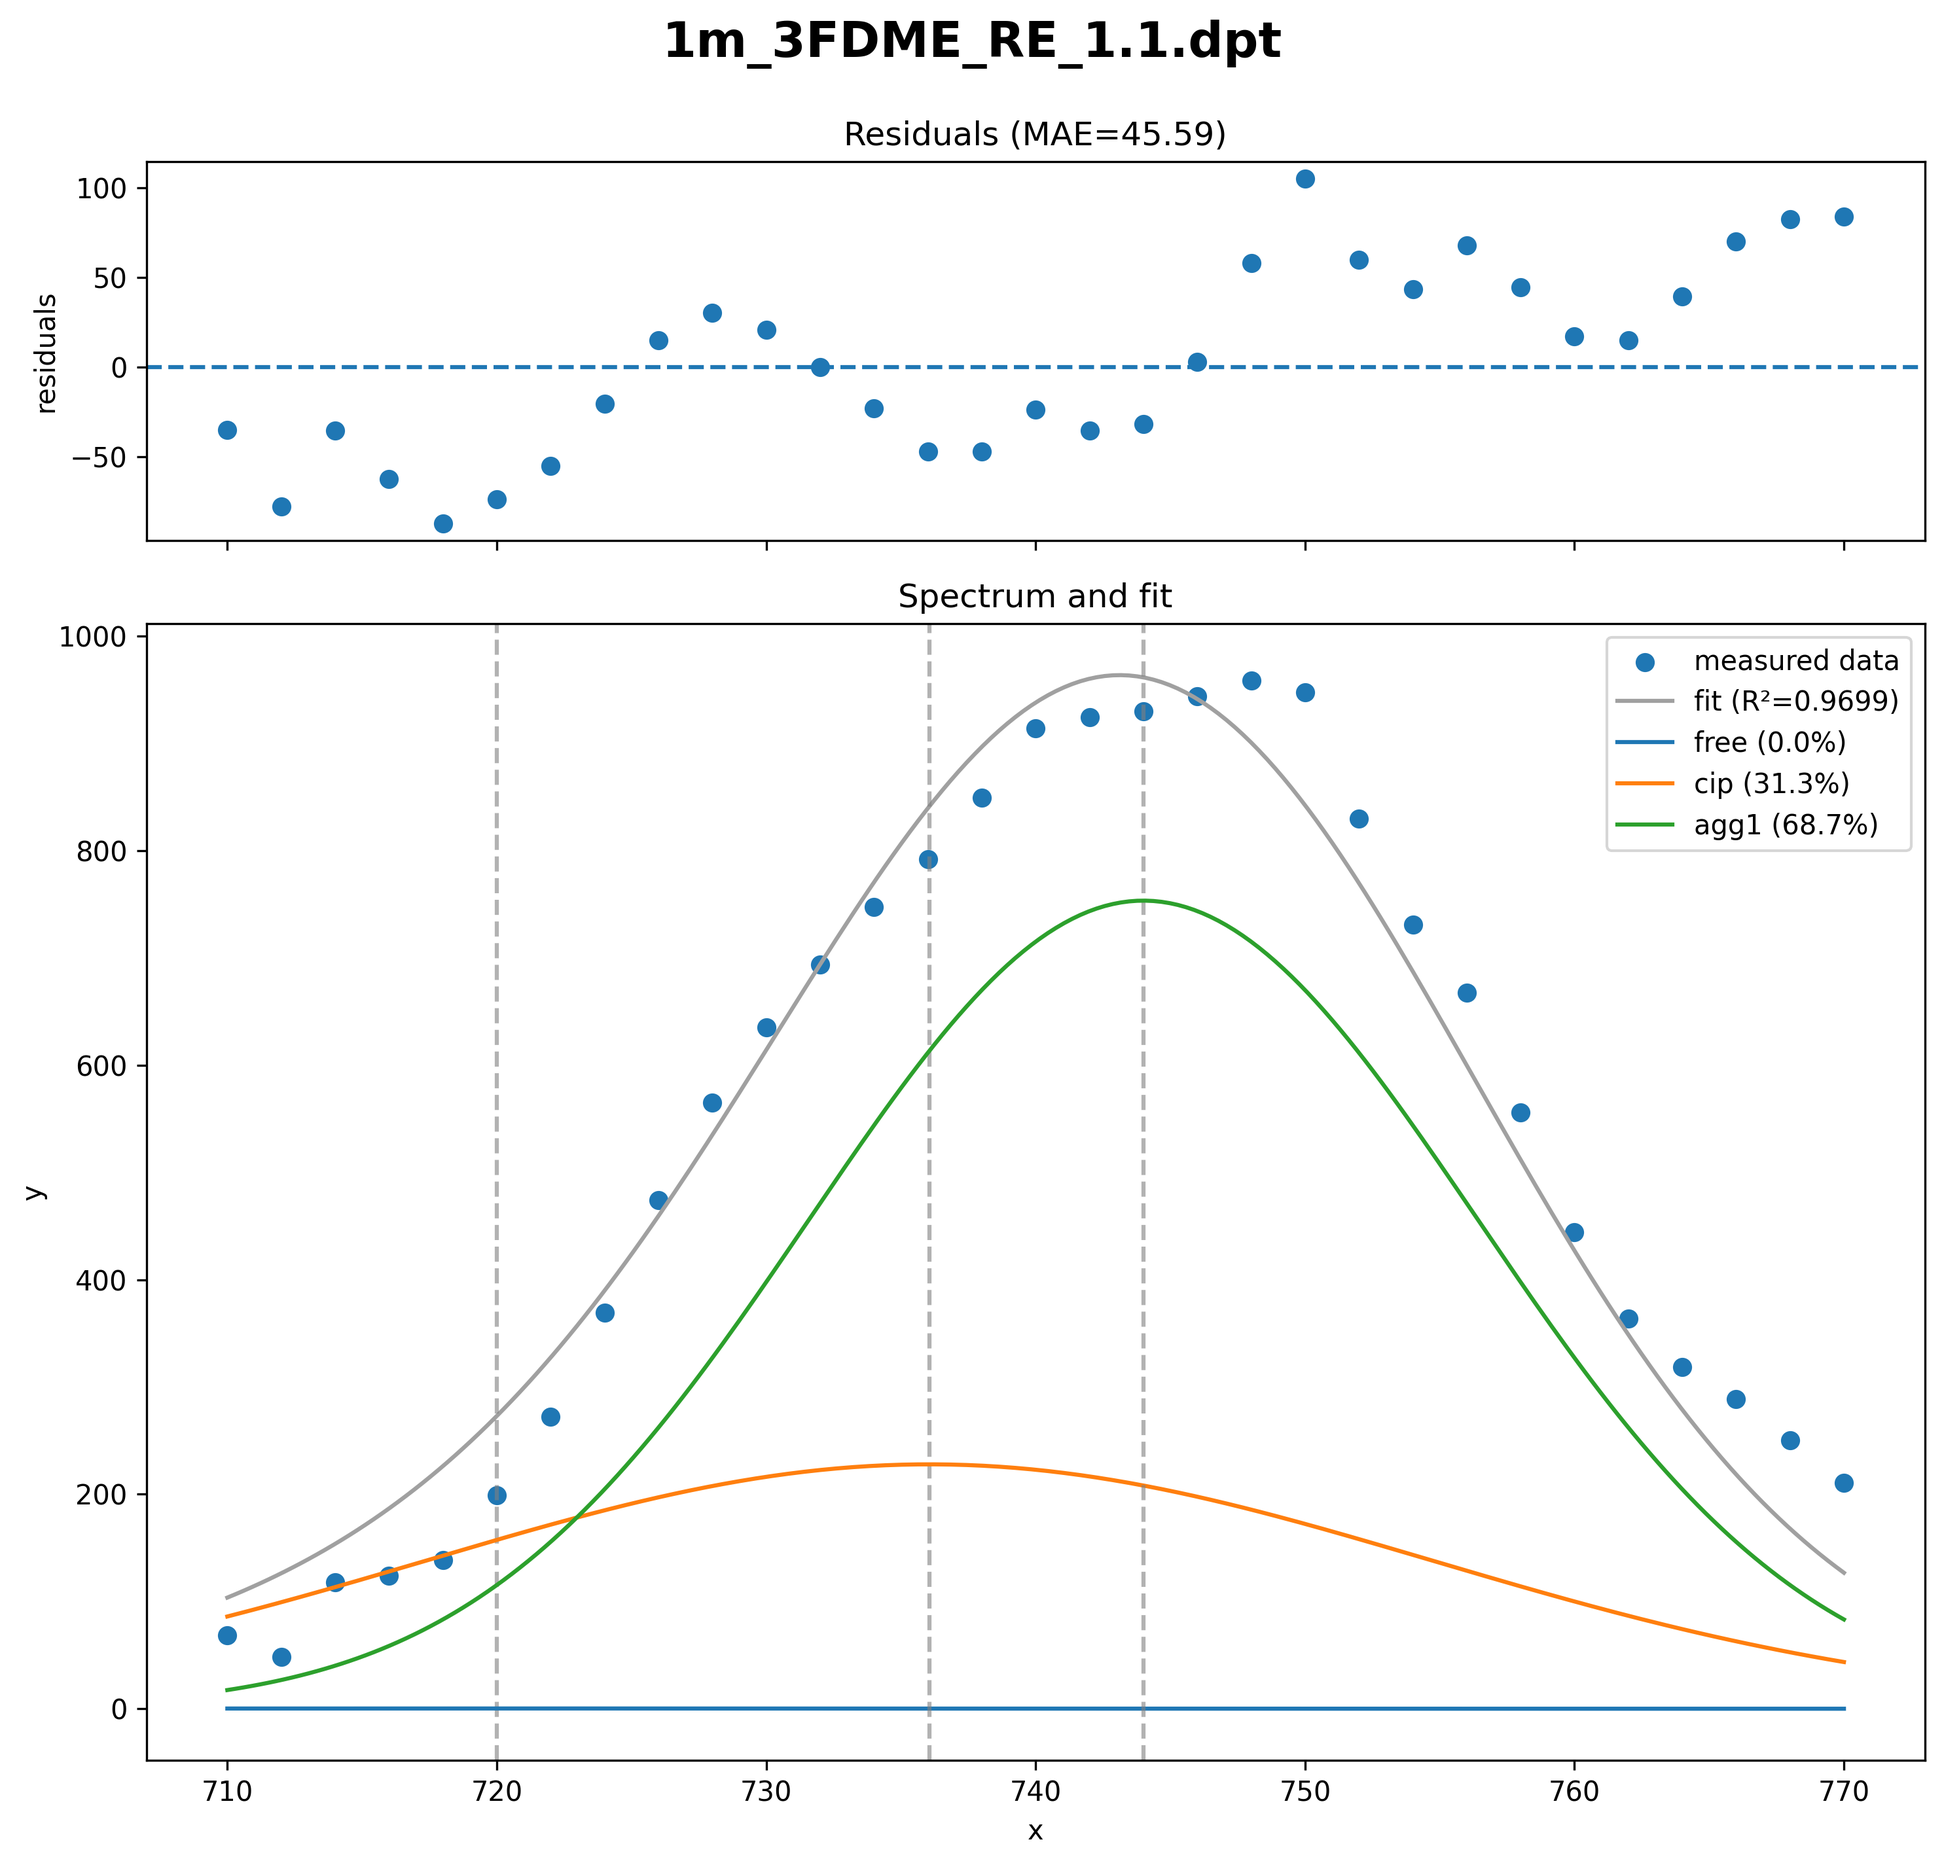
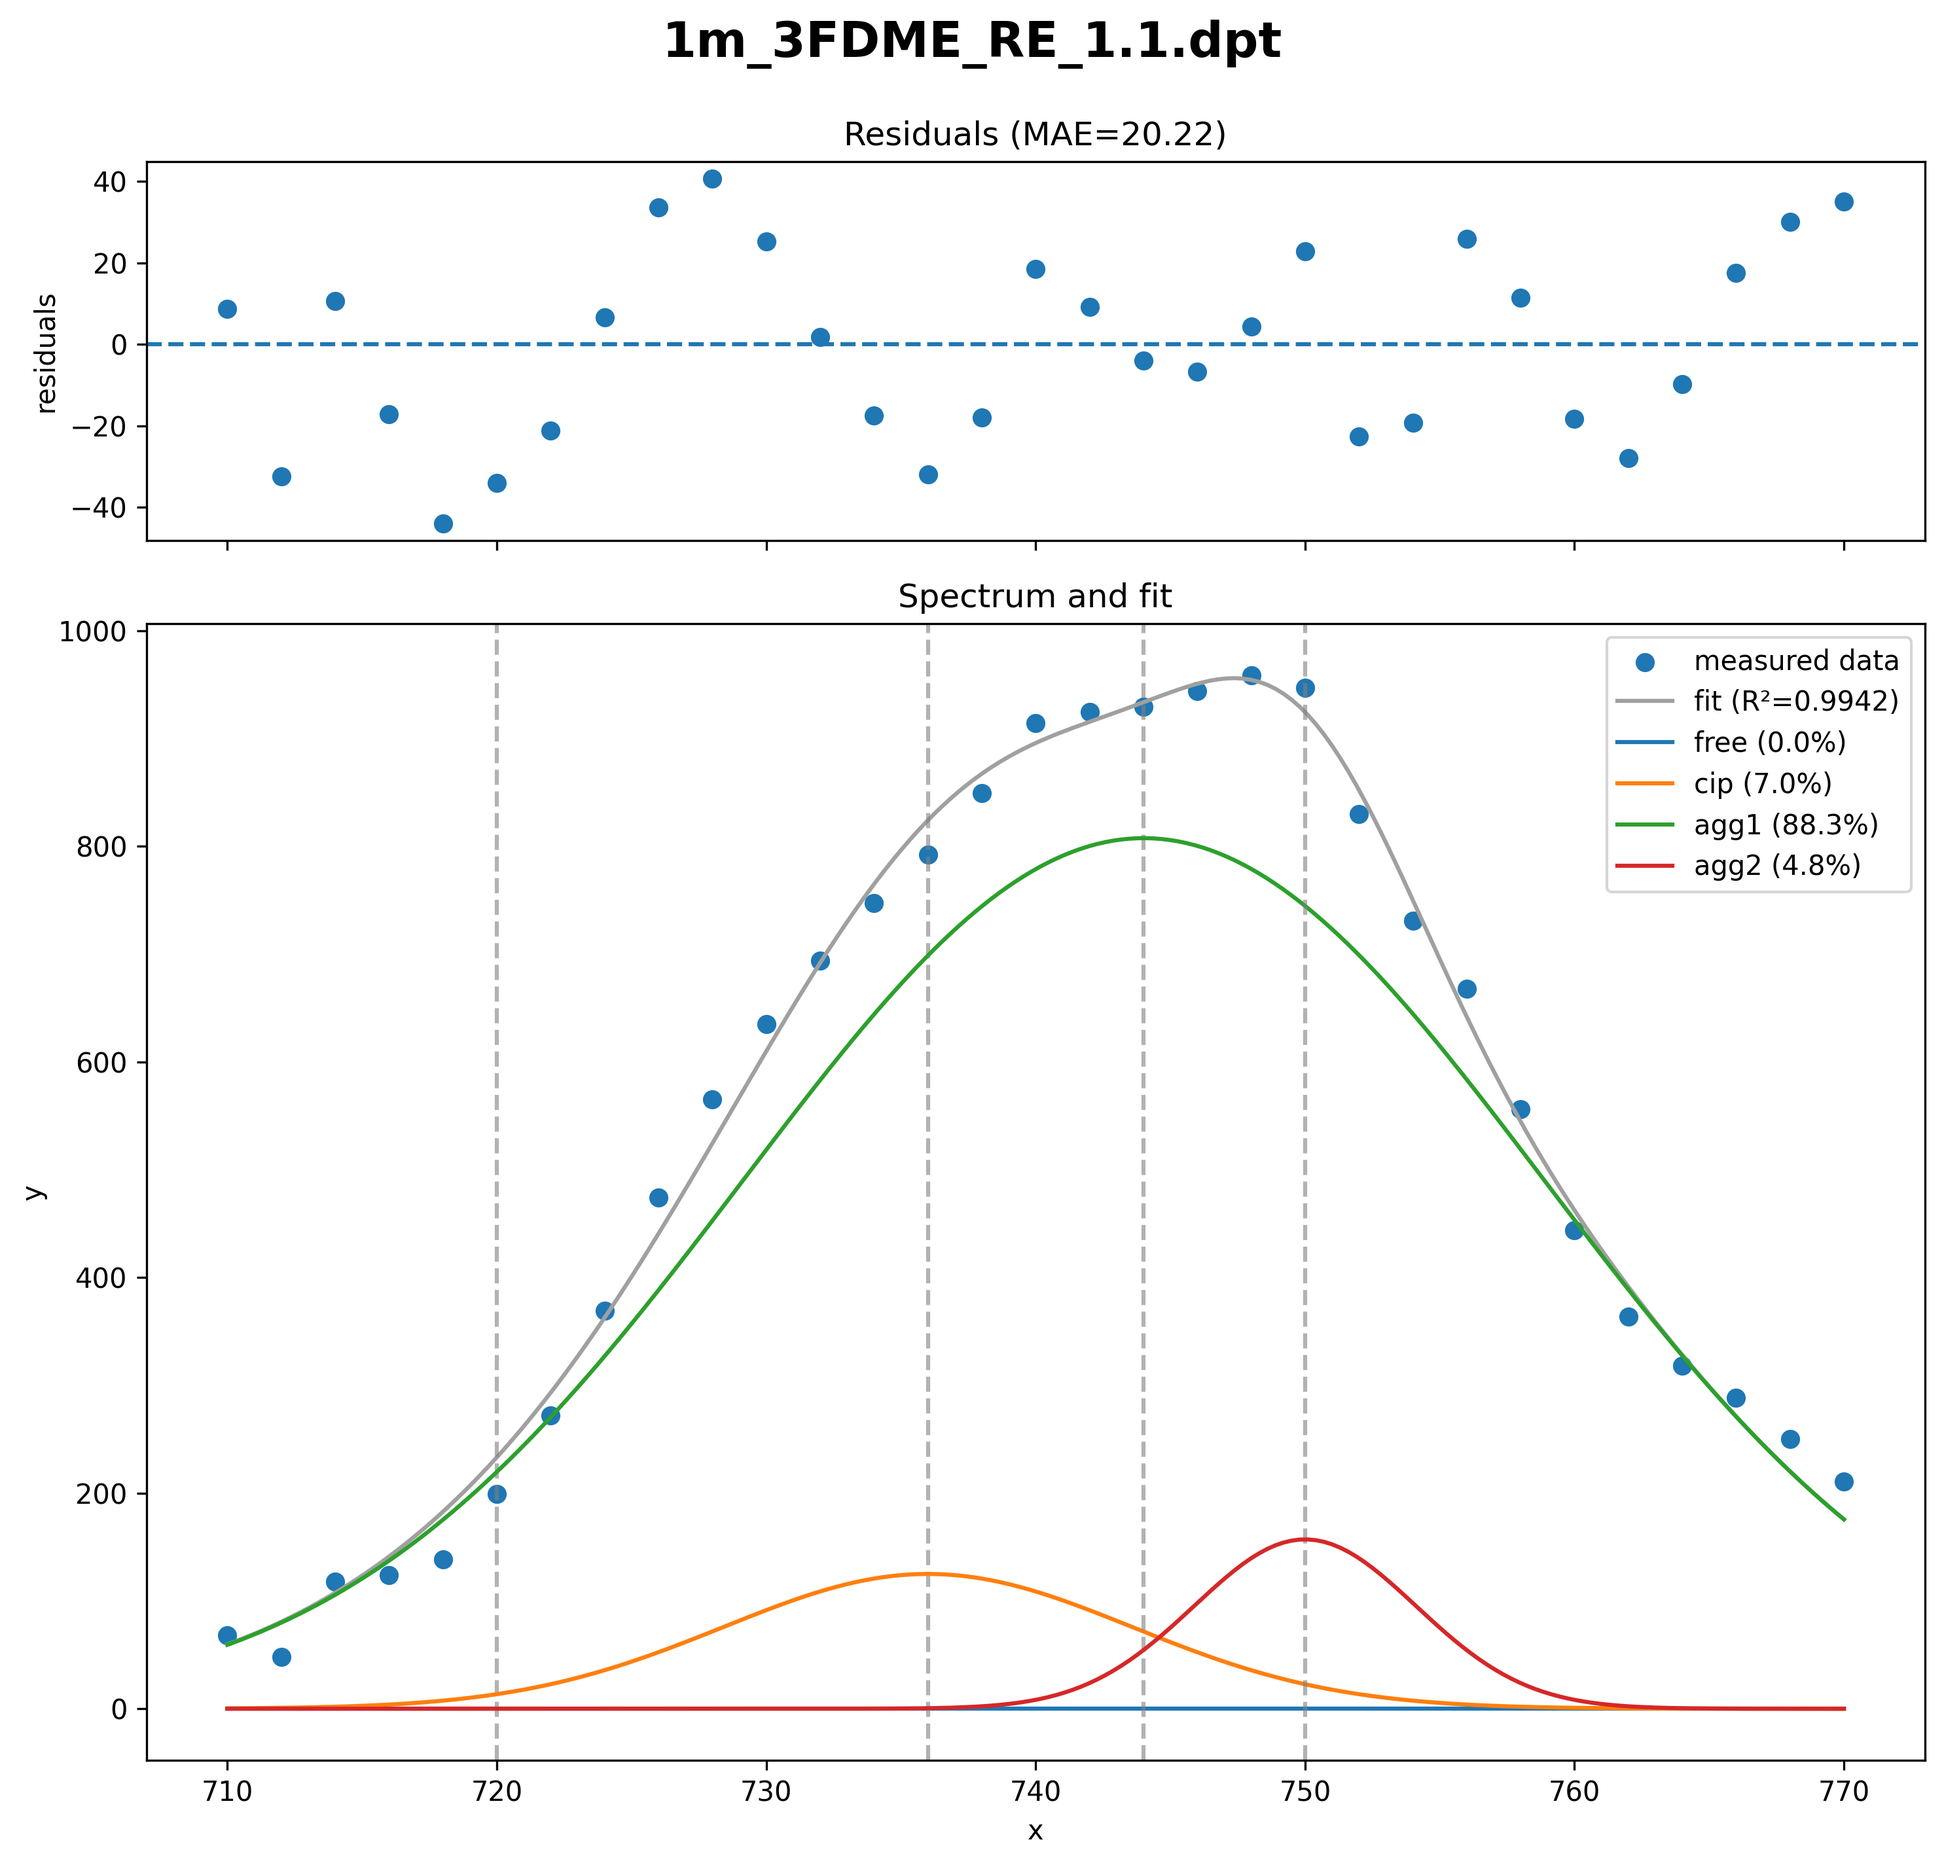
better one update
multi start point, safer algorithm, and multi file parallization

diff --git a/raman_deconv_better-ing.py b/raman_deconv_better-ing.py
@@ -1,0 +1,293 @@
+import numpy as np
+import matplotlib
+matplotlib.use('Agg')  # non-interactive backend; must be set before pyplot import
+import matplotlib.pyplot as plt
+from lmfit import Model, models
+from tqdm import tqdm
+import os
+import csv
+import multiprocessing
+from concurrent.futures import ProcessPoolExecutor, ThreadPoolExecutor, as_completed
+
+DATA_PATH = "./spectra"
+ABSTRACT_RESULT_PATH = "./results/abstract_results.csv"
+FITTED_FUNCTION_PATH = "./results/fitted_functions.csv"
+CURVE_IMAGE_PATH = "./results/curve_images"
+PEAK_LOC_PATH = "./peak_location.csv"
+SETTINGS_PATH = "./settings_better-ing.csv"
+
+def get_peak_dict(peak_loc_path=PEAK_LOC_PATH):
+    with open(peak_loc_path, 'r') as f:
+        reader = csv.reader(f)
+        header = next(reader)
+        peak_dict = {}
+        for row in reader:
+            peak_dict[row[0]] = [float(row[1]), float(row[2])]
+        if len(peak_dict) == 0:
+            raise ValueError("No peak information found in the file")
+    return peak_dict
+
+def get_settings_dict(settings_path=SETTINGS_PATH):
+    with open(settings_path, 'r') as f:
+        reader = csv.reader(f)
+        header = next(reader)
+        settings_dict = {}
+        for row in reader:
+            settings_dict[row[0]] = float(row[1])
+    return settings_dict
+
+def construct_model(peak_dict, settings_dict):
+    peak_names = list(peak_dict.keys())
+    peak_type = settings_dict['PEAK_TYPE']
+    if peak_type == 0:
+        from lmfit.models import GaussianModel as PeakModel
+    elif peak_type == 1:
+        from lmfit.models import LorentzianModel as PeakModel
+    elif peak_type == 2:
+        from lmfit.models import VoigtModel as PeakModel
+    else:
+        raise ValueError("Invalid peak type")
+    model = PeakModel(prefix=peak_names[0]+'_')
+    for peak_name in peak_names[1:]:
+        model += PeakModel(prefix=peak_name+'_')
+
+    background_type = settings_dict['BACKGROUND']
+    if background_type == 0:
+        pass
+    elif background_type == 1:
+        model += models.ConstantModel(prefix='constbg_')
+    elif background_type == 2:
+        model += models.LinearModel(prefix='linbg_')
+    elif background_type == 3:
+        model += models.LinearModel(prefix='linbg1_') + models.LinearModel(prefix='linbg2_')
+    else:
+        raise ValueError("Invalid background type")
+    
+    params = model.make_params()
+    for peak_name in peak_names:
+        params[peak_name+'_amplitude'].set(min=0)
+        params[peak_name+'_center'].set((peak_dict[peak_name][0] + peak_dict[peak_name][1])/2, min=peak_dict[peak_name][0], max=peak_dict[peak_name][1])
+        params[peak_name+'_sigma'].set(
+            (settings_dict['SIGMA_LB'] + settings_dict['SIGMA_UB']) / 2,
+            min=settings_dict['SIGMA_LB'],
+            max=settings_dict['SIGMA_UB']
+        )
+    
+    return model, params
+
+
+def initialize_params_from_data(params, peak_dict, x, y):
+    # Initialize amplitude from actual y values near each peak range
+    y_baseline = float(np.percentile(y, 10))
+    for peak_name, (lo, hi) in peak_dict.items():
+        mask = (x >= lo) & (x <= hi)
+        if mask.any():
+            amp_init = float(np.max(y[mask]) - y_baseline)
+        else:
+            amp_init = float(np.max(y) - y_baseline)
+        amp_init = max(amp_init, 1e-6)
+        params[peak_name + '_amplitude'].set(amp_init)
+    return params
+
+
+def _run_single_trial(args):
+    # Worker for ThreadPoolExecutor; each call runs one local fit
+    model, trial_params, x, y = args
+    return model.fit(y, trial_params, x=x, method='leastsq')
+
+
+def fit_robust(model, params, x, y, settings_dict):
+    # Stage 1: global search via Differential Evolution
+    # Stage 2: refine with Levenberg-Marquardt starting from DE result
+    # Optional: parallel multi-start (add USE_MULTISTART and N_STARTS to settings.csv)
+    use_multistart = int(settings_dict.get('USE_MULTISTART', 0)) == 1
+    n_starts = int(settings_dict.get('N_STARTS', 20))
+
+    best_result = None
+    best_rsq = -np.inf
+
+    # Strategy A: Differential Evolution for global search
+    try:
+        res_de = model.fit(y, params, x=x, method='differential_evolution')
+        res_refined = model.fit(y, res_de.params, x=x, method='leastsq')
+        if res_refined.rsquared > best_rsq:
+            best_rsq = res_refined.rsquared
+            best_result = res_refined
+    except Exception:
+        pass
+
+    # Strategy B: parallel multi-start, randomizing only center and sigma (optional)
+    # Amplitude is kept from data-based initialization since it is reliably estimated,
+    # while center and sigma are the uncertain parameters when peaks overlap.
+    # scipy/numpy release the GIL during computation, so ThreadPoolExecutor gives
+    # true parallelism here without the pickling overhead of ProcessPoolExecutor.
+    if use_multistart:
+        rng = np.random.default_rng(42)
+        trial_args = []
+        for _ in range(n_starts):
+            tp = params.copy()
+            for name, par in tp.items():
+                if par.vary and par.min is not None and par.max is not None:
+                    if not name.endswith('_amplitude'):
+                        tp[name].set(float(rng.uniform(par.min, par.max)))
+            trial_args.append((model, tp, x, y))
+
+        n_workers = min(n_starts, multiprocessing.cpu_count())
+        with ThreadPoolExecutor(max_workers=n_workers) as pool:
+            futures = [pool.submit(_run_single_trial, args) for args in trial_args]
+            for fut in as_completed(futures):
+                try:
+                    res = fut.result()
+                    if res.rsquared > best_rsq:
+                        best_rsq = res.rsquared
+                        best_result = res
+                except Exception:
+                    continue
+
+    # Fallback: plain local optimization
+    if best_result is None:
+        best_result = model.fit(y, params, x=x)
+
+    return best_result
+
+
+def save_curve_image(x, y, result, filename, peak_dict, settings_dict, curve_image_path=CURVE_IMAGE_PATH, FNC_DOTS=200):
+    if not os.path.exists(curve_image_path):
+        os.makedirs(curve_image_path, exist_ok=True)
+    
+    fig, (ax_res, ax_main) = plt.subplots(
+        2, 1,
+        figsize=(10, 10),
+        sharex=True,
+        gridspec_kw={'height_ratios': [1, 3]}
+    )
+    # Plot residuals
+    residuals = result.residual
+    ax_res.scatter(x, residuals)
+    ax_res.axhline(0, linestyle='--')
+    ax_res.set_ylabel('residuals')
+
+    # Plot main figure
+    ax_main.scatter(x, y, label='measured data')
+    
+    x_fit = np.linspace(settings_dict['RANGE_MIN'], settings_dict['RANGE_MAX'], FNC_DOTS)
+    y_fit = result.model.eval(params=result.params, x=x_fit)
+    fit_label = f"fit (R²={result.rsquared:.4f})"
+    ax_main.plot(x_fit, y_fit, '-', label=fit_label, color='#a0a0a0')
+
+    peak_names = list(peak_dict.keys())
+    peak_amplitudes = [result.best_values[peak_name + '_amplitude'] for peak_name in peak_names]
+    total_amplitude = sum(peak_amplitudes)
+    peak_ratios = {}
+    if total_amplitude != 0:
+        for name, amp in zip(peak_names, peak_amplitudes):
+            peak_ratios[name] = amp / total_amplitude * 100
+
+    # component curves (peak + background)
+    y_fit_components = result.model.eval_components(params=result.params, x=x_fit)
+    for i in range(len(y_fit_components)):
+        prefixname = result.model.components[i].prefix
+        comp_name = prefixname[:-1]
+        if comp_name in peak_ratios:
+            label = f"{comp_name} ({peak_ratios[comp_name]:.1f}%)"
+            center = result.best_values[comp_name + '_center']
+            ax_main.axvline(center, color='gray', linestyle='--', alpha=0.6)
+        else:
+            label = comp_name
+        ax_main.plot(x_fit, y_fit_components[prefixname], '-', label=label)
+
+    ax_main.set_xlabel('x')
+    ax_main.set_ylabel('y')
+    mae = np.mean(np.abs(residuals))
+    ax_res.set_title(f'Residuals (MAE={mae:.4g})')
+    ax_main.set_title('Spectrum and fit')
+    fig.suptitle(filename, fontsize=18, fontweight='bold', y=0.975)
+
+    ax_main.legend()
+    plt.tight_layout(rect=[0, 0.03, 1, 0.98])
+    fig.savefig(os.path.join(curve_image_path, filename + '.png'), bbox_inches='tight', dpi=300)
+    plt.close(fig)  # release memory; critical when running many workers in parallel
+
+
+def process_file(args):
+    # Top-level function required for ProcessPoolExecutor (must be picklable)
+    filename, data_path, peak_dict, settings_dict, curve_image_path = args
+
+    file_path = os.path.join(data_path, filename)
+    spectrum = np.loadtxt(file_path, delimiter=',')
+    x_all = spectrum[:, 0]; y_all = spectrum[:, 1]
+    mask = (x_all >= settings_dict['RANGE_MIN']) & (x_all <= settings_dict['RANGE_MAX'])
+    x = x_all[mask]; y = y_all[mask]
+
+    model, params = construct_model(peak_dict, settings_dict)
+    params = initialize_params_from_data(params, peak_dict, x, y)
+    result = fit_robust(model, params, x, y, settings_dict)
+
+    save_curve_image(x, y, result, filename, peak_dict, settings_dict, curve_image_path)
+
+    # Return plain data so the main process can write CSVs without race conditions
+    peak_names = list(peak_dict.keys())
+    best_values = dict(result.best_values)
+    best_values['rsquared'] = result.rsquared
+    return filename, peak_names, best_values
+
+
+def write_csv_results(results, peak_dict):
+    # Write abstract results (amplitude ratios)
+    os.makedirs(os.path.dirname(ABSTRACT_RESULT_PATH), exist_ok=True)
+    peak_names = list(peak_dict.keys())
+    with open(ABSTRACT_RESULT_PATH, 'w', newline='') as f:
+        writer = csv.writer(f)
+        writer.writerow(['filename'] + [p + '(%)' for p in peak_names])
+        for filename, _, best_values in results:
+            amps = [best_values[p + '_amplitude'] for p in peak_names]
+            total = sum(amps)
+            writer.writerow([filename] + [a / total * 100 for a in amps])
+
+    # Write full fitted parameters
+    param_keys = [k for k in results[0][2].keys() if k != 'rsquared']
+    with open(FITTED_FUNCTION_PATH, 'w', newline='') as f:
+        writer = csv.writer(f)
+        writer.writerow(['filename'] + param_keys + ['rsquared'])
+        for filename, _, best_values in results:
+            writer.writerow([filename] + [best_values[k] for k in param_keys] + [best_values['rsquared']])
+
+
+if __name__ == "__main__":
+    file_names = [f for f in os.listdir(DATA_PATH)
+                  if os.path.isfile(os.path.join(DATA_PATH, f))]
+
+    peak_dict = get_peak_dict()
+    settings_dict = get_settings_dict()
+    os.makedirs(CURVE_IMAGE_PATH, exist_ok=True)
+
+    args_list = [
+        (fn, DATA_PATH, peak_dict, settings_dict, CURVE_IMAGE_PATH)
+        for fn in file_names
+    ]
+
+    # Each file is processed independently, so parallelize across all CPU cores
+    n_workers = multiprocessing.cpu_count()
+    results = []
+    errors = []
+
+    with ProcessPoolExecutor(max_workers=n_workers) as executor:
+        futures = {executor.submit(process_file, args): args[0] for args in args_list}
+        with tqdm(total=len(file_names), desc="Processing files") as pbar:
+            for future in as_completed(futures):
+                filename = futures[future]
+                try:
+                    results.append(future.result())
+                except Exception as e:
+                    errors.append((filename, e))
+                pbar.update(1)
+                pbar.set_postfix_str(filename)
+
+    if errors:
+        print(f"\n{len(errors)} file(s) failed:")
+        for fn, e in errors:
+            print(f"  {fn}: {e}")
+
+    if results:
+        write_csv_results(results, peak_dict)
+        print(f"\nDone. {len(results)} file(s) processed successfully.")
